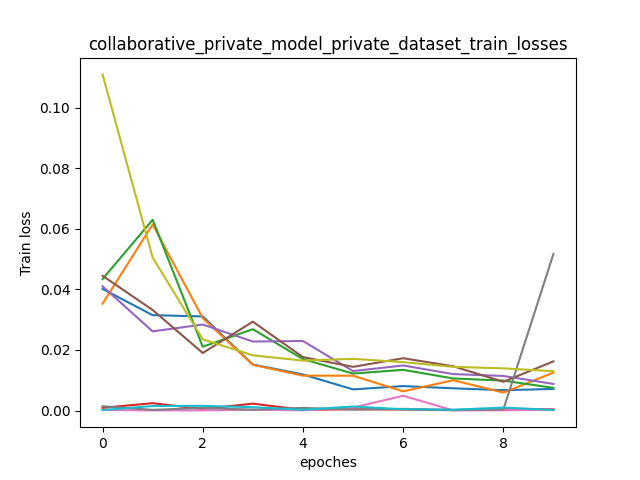
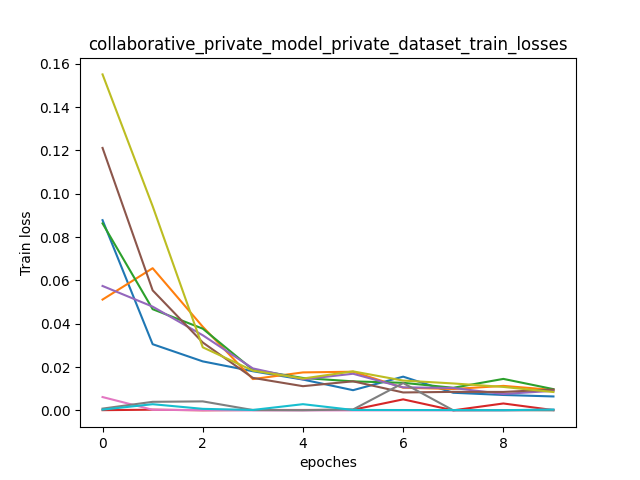
update

diff --git a/option.py b/option.py
@@ -28,13 +28,13 @@ def args_parser():
     # Collaborative_private_model_femnist_balanced
     parser.add_argument('--new_collaborative_training',type=bool,default=False,help='whether train model from initial condition')
     parser.add_argument('--Collaborativeurl',type=str,default='Src\CollaborativeModel',help='collaborative model location')
-    parser.add_argument('--collaborative_epoch',type=int,default=3,help='collaborative_epoch for train on public mnist')
+    parser.add_argument('--collaborative_epoch',type=int,default=6,help='collaborative_epoch for train on public mnist')
 
     # Collaborative_step
     parser.add_argument('--Communicationepoch',type=int,default=10,help='Collaobrative epoch in Step3')
 
     # collaborative_private_model_femnist_balanced
-    parser.add_argument('--Communication_private_epoch',type=int,default=10,help='Local private training during colaboratiive time')
+    parser.add_argument('--Communication_private_epoch',type=int,default=10 ,help='Local private training during colaboratiive time')
 
     args = parser.parse_args()
 

diff --git a/collaborative_train_balanced_mnist.py b/collaborative_train_balanced_mnist.py
@@ -49,7 +49,7 @@ def collaborative_private_model_mnist_train(args):
         for i in range(args.user_number):
             train_batch_loss.append([])
 
-        trainloader = DataLoader(DatasetSplit(train_dataset,list(epoch_groups[epoch])),batch_size=128,shuffle=True)
+        trainloader = DataLoader(DatasetSplit(train_dataset,list(epoch_groups[epoch])),batch_size=256,shuffle=True)
 
         for batch_idx, (images, labels) in enumerate(trainloader):
             images,labels = images.to(device),labels.to(device)

diff --git a/collaborative_model_femnist_Accuracy.py b/collaborative_model_femnist_Accuracy.py
@@ -23,7 +23,7 @@ def test_accuracy_collaborativemodel(args):
         loss, total, correct = 0.0, 0.0, 0.0
         criterion = nn.NLLLoss().to(device)
 
-        testloader = DataLoader(test_dataset, batch_size=64, shuffle=False)
+        testloader = DataLoader(test_dataset, batch_size=128, shuffle=False)
         for batch_idx, (images, labels) in enumerate(testloader):
             images, labels = images.to(device), labels.to(device)
             outputs = model(images)
